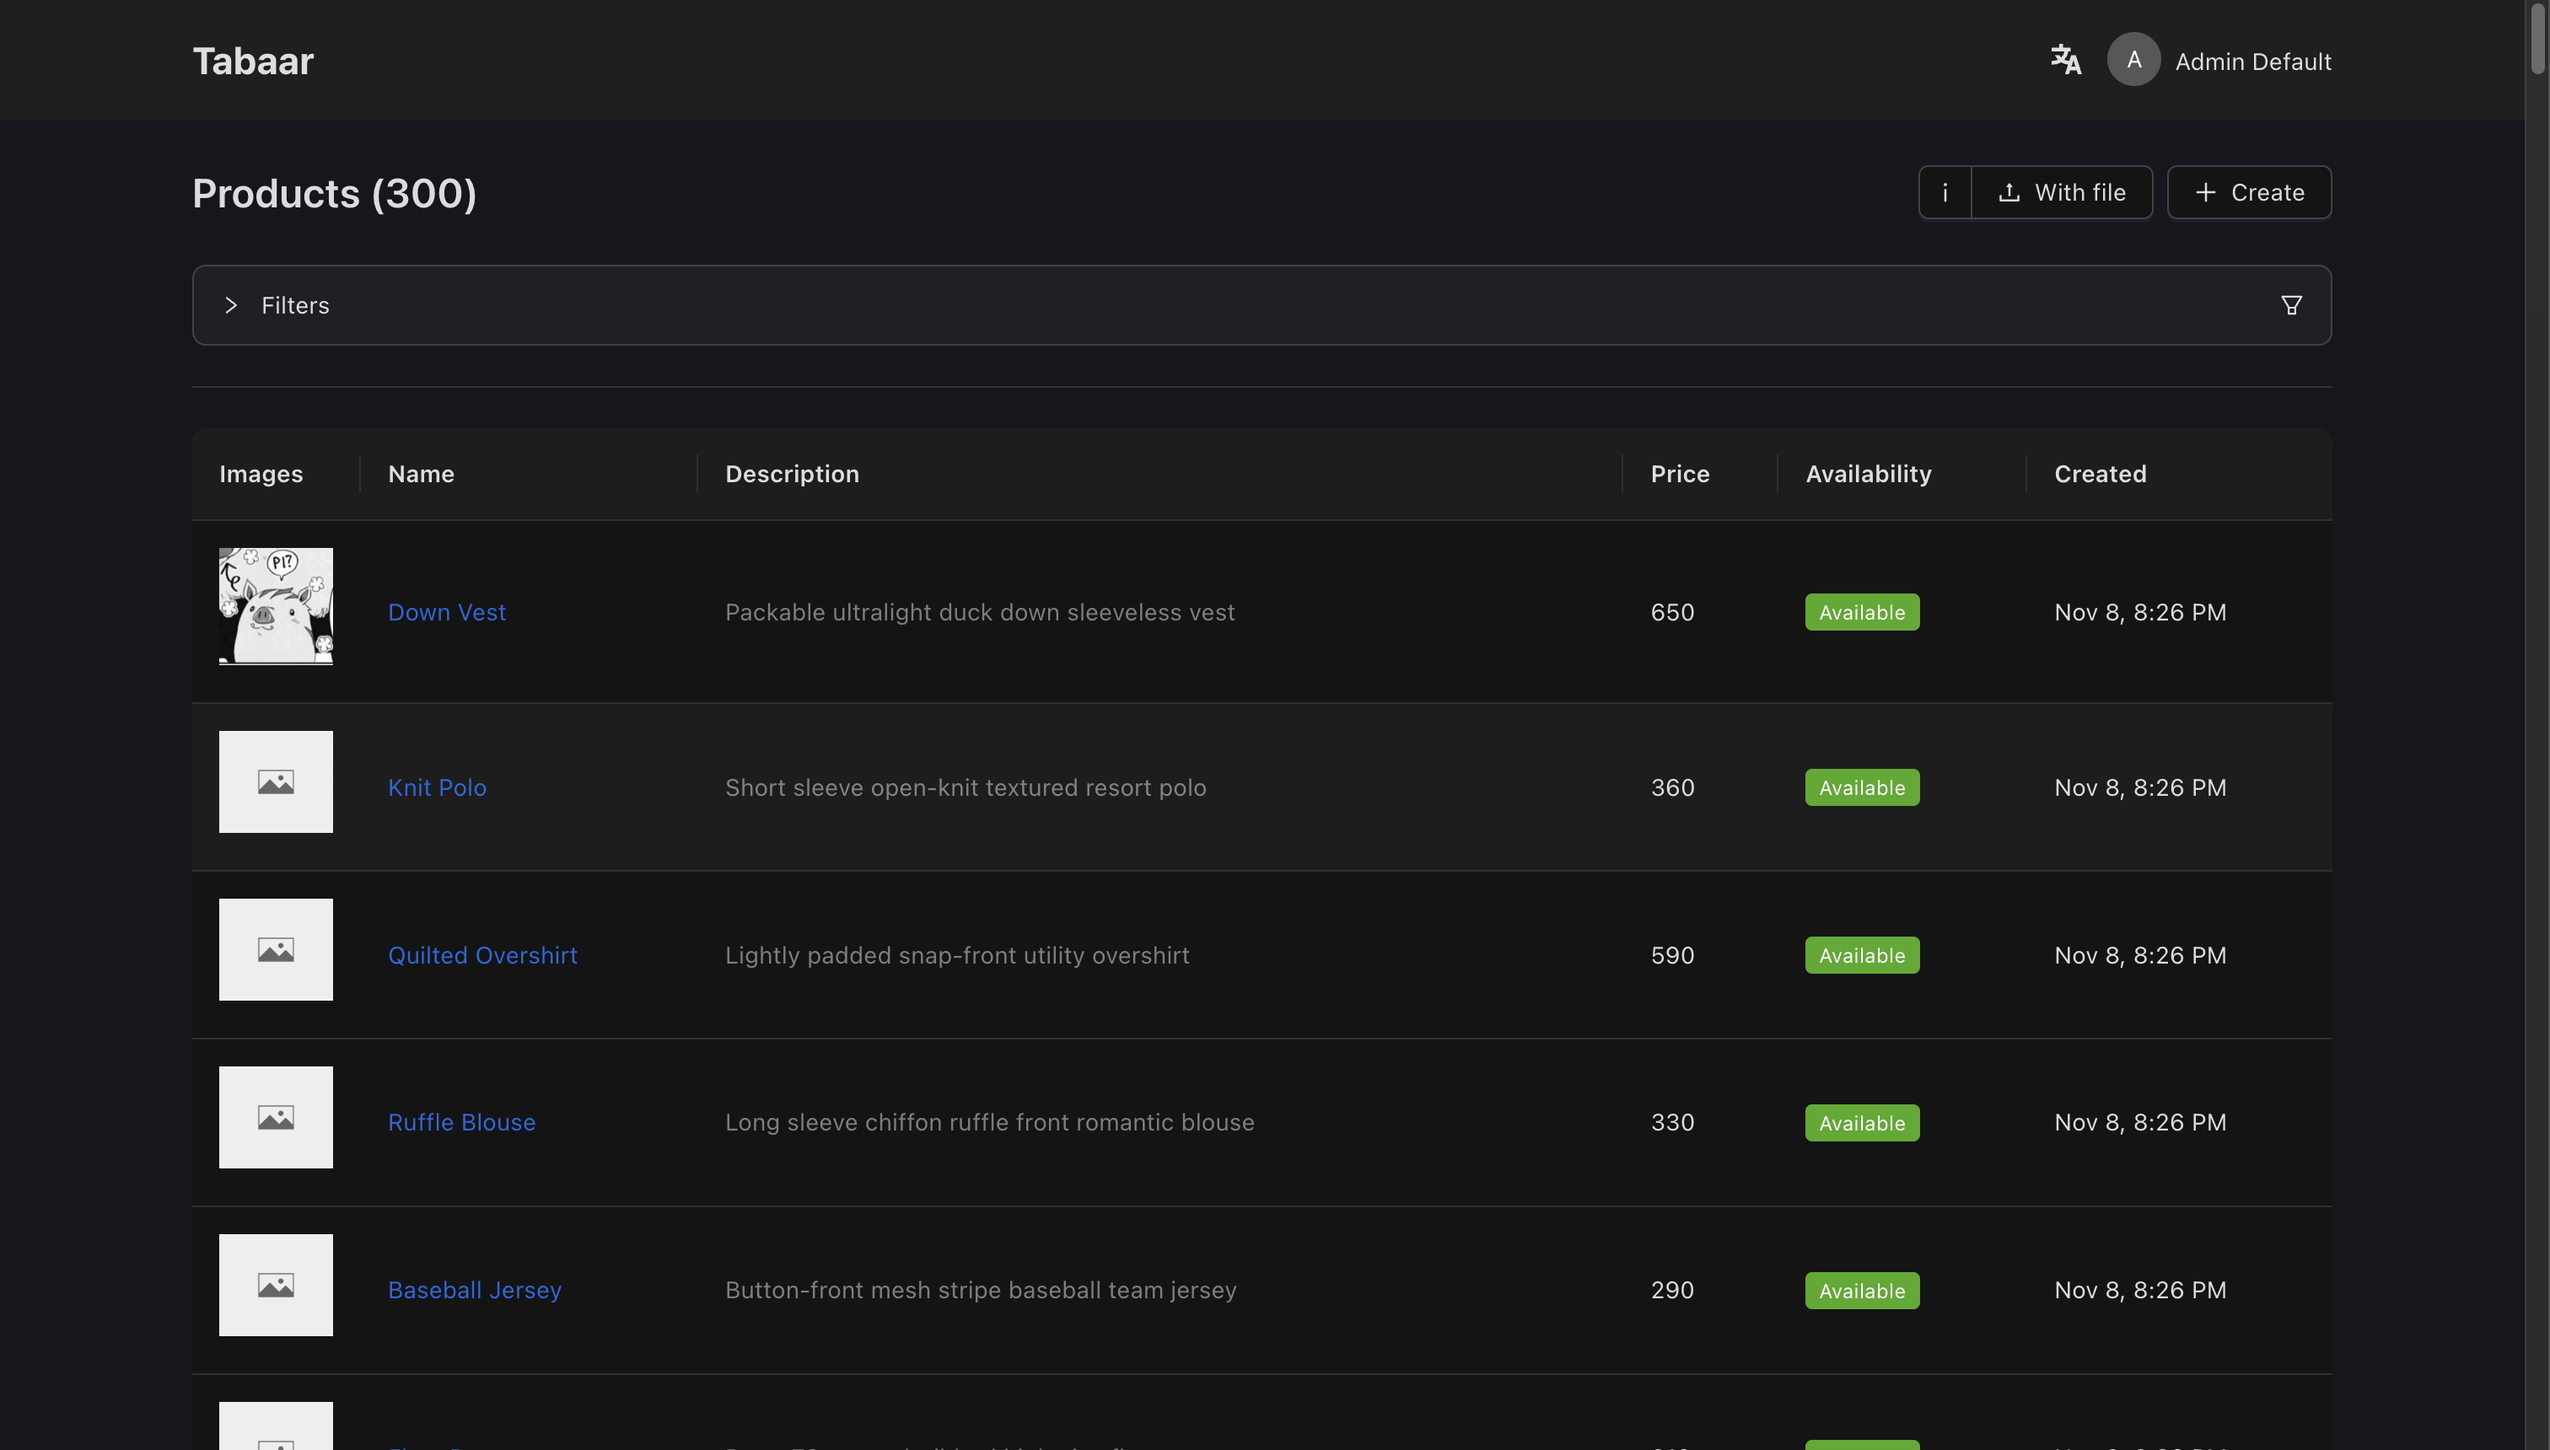
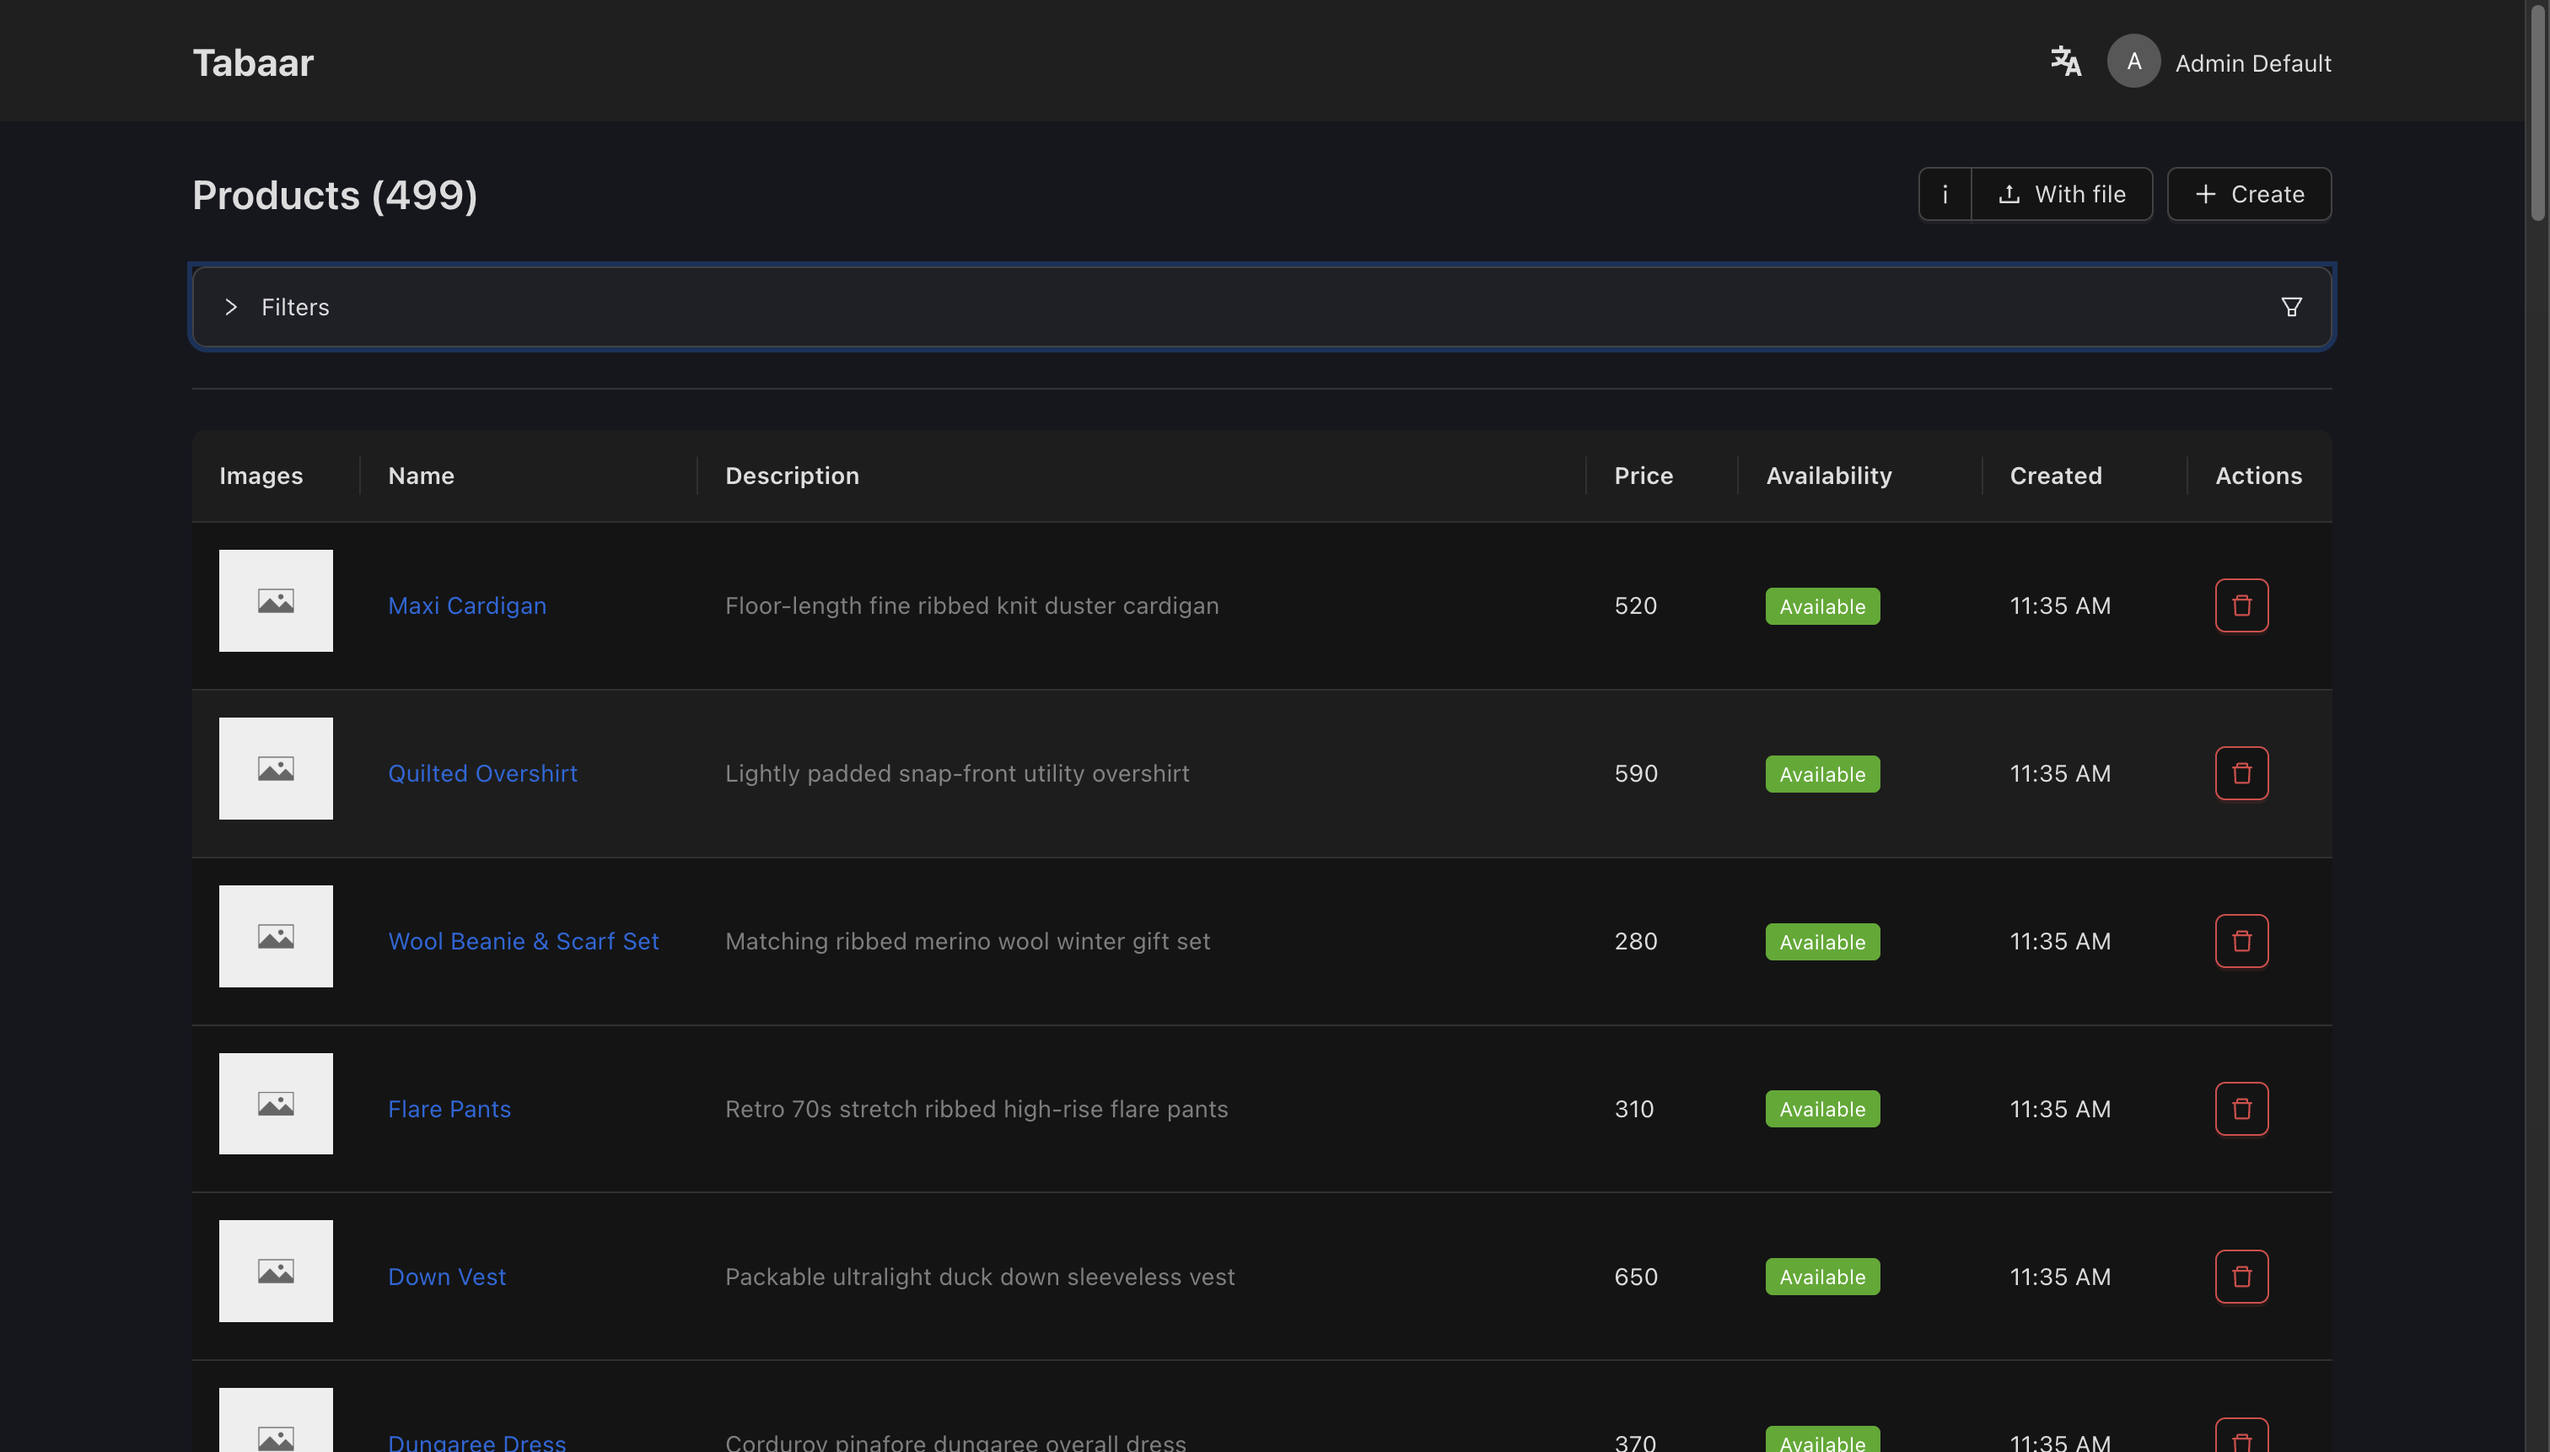
fix types

diff --git a/src/grpc/services/productService/callbacks/getOneProduct.ts b/src/grpc/services/productService/callbacks/getOneProduct.ts
@@ -1,9 +1,9 @@
 import { handleUnaryCall, status } from "@grpc/grpc-js";
+import { errors } from "@elastic/elasticsearch";
 
 import { GetOneProductRequest } from "#grpc/generated/GetOneProductRequest";
 import { GetOneProductResponse } from "#grpc/generated/GetOneProductResponse";
 import { stringIdInParams } from "#utils/zod-schemas/id-params";
-// import { getApiKeyFromGrpc } from "#utils/grpc/getApiKey";
 import { INDEXES } from "#utils/elastic/types";
 import { elasticSearch } from "#utils/elastic";
 import { ProductIndex } from "#utils/elastic/types";
@@ -14,19 +14,6 @@ export const getOneProduct: handleUnaryCall<
   GetOneProductRequest,
   GetOneProductResponse
 > = async (call, callback) => {
-  // const {
-  //   success: apiKeySuccess,
-  //   error: apiKeyError,
-  //   code,
-  // } = await getApiKeyFromGrpc(call.metadata);
-
-  // if (!apiKeySuccess) {
-  //   callback({
-  //     code,
-  //     details: apiKeyError ?? "Something went wrong",
-  //   });
-  //   return;
-  // }
   const { success, data, error } = stringIdInParams.safeParse(call.request);
   if (!success) {
     callback({
@@ -53,11 +40,13 @@ export const getOneProduct: handleUnaryCall<
     });
   } catch (e) {
     console.error(e);
-    if (e.meta?.statusCode === 404) {
-      return callback({
-        code: status.NOT_FOUND,
-        details: "Product not found",
-      });
+    if (e instanceof errors.ResponseError) {
+      if (e.meta?.statusCode === 404) {
+        return callback({
+          code: status.NOT_FOUND,
+          details: "Product not found",
+        });
+      }
     }
     callback({
       code: status.INTERNAL,

diff --git a/src/grpc/services/productService/callbacks/getProducts.ts b/src/grpc/services/productService/callbacks/getProducts.ts
@@ -5,7 +5,6 @@ import { GetProductsRequest } from "#grpc/generated/GetProductsRequest";
 import { GetProductsResponse } from "#grpc/generated/GetProductsResponse";
 import { searchSchema } from "#utils/zod-schemas/skip-take";
 import { filtersSchema } from "#utils/zod-schemas/products";
-// import { getApiKeyFromGrpc } from "#utils/grpc/getApiKey";
 import { INDEXES } from "#utils/elastic/types";
 import { elasticSearch } from "#utils/elastic";
 import { ProductIndex } from "#utils/elastic/types";
@@ -16,20 +15,6 @@ export const getProducts: handleUnaryCall<
   GetProductsRequest,
   GetProductsResponse
 > = async (call, callback) => {
-  // const {
-  //   success: apiKeySuccess,
-  //   error: apiKeyError,
-  //   code,
-  // } = await getApiKeyFromGrpc(call.metadata);
-
-  // if (!apiKeySuccess) {
-  //   callback({
-  //     code,
-  //     details: apiKeyError ?? "Something went wrong",
-  //   });
-  //   return;
-  // }
-
   const { success, data, error } = z
     .intersection(
       searchSchema,

diff --git a/src/grpc/services/productService/callbacks/scrollProduct.ts b/src/grpc/services/productService/callbacks/scrollProduct.ts
@@ -2,7 +2,6 @@ import { handleUnaryCall, status } from "@grpc/grpc-js";
 
 import { ScrollProductsRequest } from "#grpc/generated/ScrollProductsRequest";
 import { GetProductsResponse } from "#grpc/generated/GetProductsResponse";
-// import { getApiKeyFromGrpc } from "#utils/grpc/getApiKey";
 import { elasticSearch } from "#utils/elastic";
 import { ProductIndex } from "#utils/elastic/types";
 import { createGrpcProduct } from "#utils/grpc/product";
@@ -12,19 +11,6 @@ export const scrollProducts: handleUnaryCall<
   ScrollProductsRequest,
   GetProductsResponse
 > = async (call, callback) => {
-  // const {
-  //   success: apiKeySuccess,
-  //   error: apiKeyError,
-  //   code,
-  // } = await getApiKeyFromGrpc(call.metadata);
-
-  // if (!apiKeySuccess) {
-  //   callback({
-  //     code,
-  //     details: apiKeyError ?? "Something went wrong",
-  //   });
-  //   return;
-  // }
   const { success, data, error } = scrollSchema.safeParse(call.request);
 
   if (!success) {

diff --git a/src/grpc/services/productService/callbacks/appendVariant.ts b/src/grpc/services/productService/callbacks/appendVariant.ts
@@ -1,6 +1,7 @@
 import { handleUnaryCall, status } from "@grpc/grpc-js";
 import { createId } from "@paralleldrive/cuid2";
 import z from "zod";
+import { errors } from "@elastic/elasticsearch";
 
 import { AppendVariantRequest } from "#grpc/generated/AppendVariantRequest";
 import { AppendVariantResponse } from "#grpc/generated/AppendVariantResponse";
@@ -109,13 +110,15 @@ export const appendVariant: handleUnaryCall<
         available,
       },
     });
-  } catch (error) {
+  } catch (error: unknown) {
     console.error(error);
-    if (error.meta?.statusCode === 404) {
-      return callback({
-        code: status.NOT_FOUND,
-        details: "Product not found",
-      });
+    if (error instanceof errors.ResponseError) {
+      if (error.meta.statusCode === 404) {
+        return callback({
+          code: status.NOT_FOUND,
+          details: "Product not found",
+        });
+      }
     }
     callback({
       code: status.INTERNAL,

diff --git a/src/routes/api/product/id/get.ts b/src/routes/api/product/id/get.ts
@@ -1,5 +1,5 @@
 import type { Request, Response } from "express";
-import type { ConnectionRequestResponse } from "@elastic/elasticsearch";
+import { errors } from "@elastic/elasticsearch";
 
 import { elasticSearch } from "#utils/elastic";
 import { INDEXES, ProductIndex } from "#utils/elastic/types";
@@ -25,8 +25,10 @@ export async function getProductById(req: Request, res: Response) {
     res.json(parseSource(result._source));
   } catch (error) {
     console.error(error);
-    if (error.meta?.statusCode === 404) {
-      return res.status(404).json({ message: "Product not found" });
+    if (error instanceof errors.ResponseError) {
+      if (error.meta?.statusCode === 404) {
+        return res.status(404).json({ message: "Product not found" });
+      }
     }
     return res.status(500).json({ message: "Internal server error" });
   }

diff --git a/src/grpc/services/productService/callbacks/updateVariant.ts b/src/grpc/services/productService/callbacks/updateVariant.ts
@@ -1,5 +1,6 @@
 import { handleUnaryCall, status } from "@grpc/grpc-js";
 import z from "zod";
+import { errors } from "@elastic/elasticsearch";
 
 import { UpdateVariantRequest } from "#grpc/generated/UpdateVariantRequest";
 import { UpdateVariantResponse } from "#grpc/generated/UpdateVariantResponse";
@@ -106,11 +107,13 @@ export const updateVariant: handleUnaryCall<
     });
   } catch (e) {
     console.error(e);
-    if (e.meta?.statusCode === 404) {
-      return callback({
-        code: status.NOT_FOUND,
-        details: "Product not found",
-      });
+    if (e instanceof errors.ResponseError) {
+      if (e.meta?.statusCode === 404) {
+        return callback({
+          code: status.NOT_FOUND,
+          details: "Product not found",
+        });
+      }
     }
     callback({
       code: status.INTERNAL,

diff --git a/src/routes/api/product/id/put.ts b/src/routes/api/product/id/put.ts
@@ -1,4 +1,5 @@
 import type { Request, Response } from "express";
+import { errors } from "@elastic/elasticsearch";
 
 import { stringIdInParams } from "#utils/zod-schemas/id-params";
 import { updateProductSchema } from "#utils/zod-schemas/products";
@@ -58,8 +59,10 @@ export async function updateProductById(req: Request, res: Response) {
     return res.status(200).json(parseSource(result.get._source));
   } catch (error) {
     console.error(error);
-    if (error.meta?.statusCode === 404) {
-      return res.status(404).json({ message: "Product not found" });
+    if (error instanceof errors.ResponseError) {
+      if (error.meta?.statusCode === 404) {
+        return res.status(404).json({ message: "Product not found" });
+      }
     }
     return res.status(500).json({
       message: "Failed to update product",

diff --git a/src/grpc/services/productService/callbacks/deleteVariant.ts b/src/grpc/services/productService/callbacks/deleteVariant.ts
@@ -1,5 +1,6 @@
 import { handleUnaryCall, status } from "@grpc/grpc-js";
 import z from "zod";
+import { errors } from "@elastic/elasticsearch";
 
 import { UpdateVariantRequest } from "#grpc/generated/UpdateVariantRequest";
 import { UpdateVariantResponse } from "#grpc/generated/UpdateVariantResponse";
@@ -94,11 +95,13 @@ export const deleteVariant: handleUnaryCall<
     });
   } catch (e) {
     console.error(e);
-    if (e.meta?.statusCode === 404) {
-      return callback({
-        code: status.NOT_FOUND,
-        details: "Product not found",
-      });
+    if (e instanceof errors.ResponseError) {
+      if (e.meta?.statusCode === 404) {
+        return callback({
+          code: status.NOT_FOUND,
+          details: "Product not found",
+        });
+      }
     }
     callback({
       code: status.INTERNAL,

diff --git a/src/grpc/services/productService/callbacks/updateProduct.ts b/src/grpc/services/productService/callbacks/updateProduct.ts
@@ -1,5 +1,6 @@
 import { handleUnaryCall, status } from "@grpc/grpc-js";
 import z from "zod";
+import { errors } from "@elastic/elasticsearch";
 
 import { UpdateProductRequest } from "#grpc/generated/UpdateProductRequest";
 import { UpdateProductResponse } from "#grpc/generated/UpdateProductResponse";
@@ -84,11 +85,13 @@ export const updateProduct: handleUnaryCall<
     });
   } catch (e) {
     console.error(e);
-    if (e.meta?.statusCode === 404) {
-      return callback({
-        code: status.NOT_FOUND,
-        details: "Product not found",
-      });
+    if (e instanceof errors.ResponseError) {
+      if (e.meta?.statusCode === 404) {
+        return callback({
+          code: status.NOT_FOUND,
+          details: "Product not found",
+        });
+      }
     }
     callback({
       code: status.INTERNAL,

diff --git a/src/grpc/services/productService/callbacks/restoreProduct.ts b/src/grpc/services/productService/callbacks/restoreProduct.ts
@@ -1,4 +1,5 @@
 import { handleUnaryCall, status } from "@grpc/grpc-js";
+import { errors } from "@elastic/elasticsearch";
 
 import { CreateProductRequest } from "#grpc/generated/CreateProductRequest";
 import { DeleteProductResponse } from "#grpc/generated/DeleteProductResponse";
@@ -60,11 +61,13 @@ export const restoreProduct: handleUnaryCall<
     });
   } catch (e) {
     console.error(e);
-    if (e.meta?.statusCode === 404) {
-      return callback({
-        code: status.NOT_FOUND,
-        details: "Product not found",
-      });
+    if (e instanceof errors.ResponseError) {
+      if (e.meta?.statusCode === 404) {
+        return callback({
+          code: status.NOT_FOUND,
+          details: "Product not found",
+        });
+      }
     }
     callback({
       code: status.INTERNAL,

diff --git a/src/grpc/services/productService/callbacks/deleteProduct.ts b/src/grpc/services/productService/callbacks/deleteProduct.ts
@@ -1,4 +1,5 @@
 import { handleUnaryCall, status } from "@grpc/grpc-js";
+import { errors } from "@elastic/elasticsearch";
 
 import { CreateProductRequest } from "#grpc/generated/CreateProductRequest";
 import { DeleteProductResponse } from "#grpc/generated/DeleteProductResponse";
@@ -60,11 +61,13 @@ export const deleteProduct: handleUnaryCall<
     });
   } catch (e) {
     console.error(e);
-    if (e.meta?.statusCode === 404) {
-      return callback({
-        code: status.NOT_FOUND,
-        details: "Product not found",
-      });
+    if (e instanceof errors.ResponseError) {
+      if (e.meta?.statusCode === 404) {
+        return callback({
+          code: status.NOT_FOUND,
+          details: "Product not found",
+        });
+      }
     }
     callback({
       code: status.INTERNAL,
